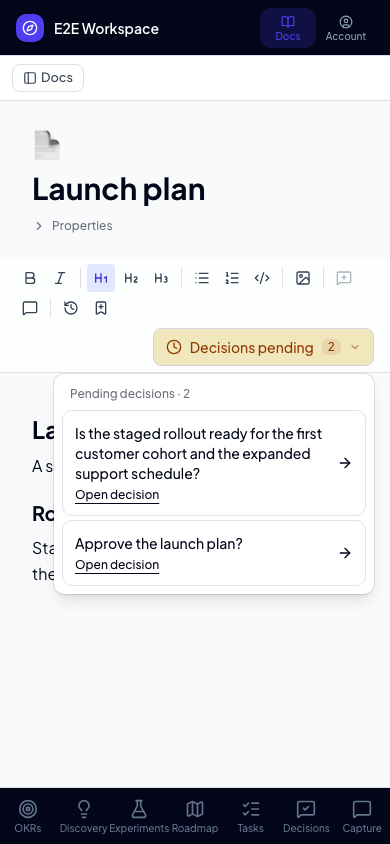
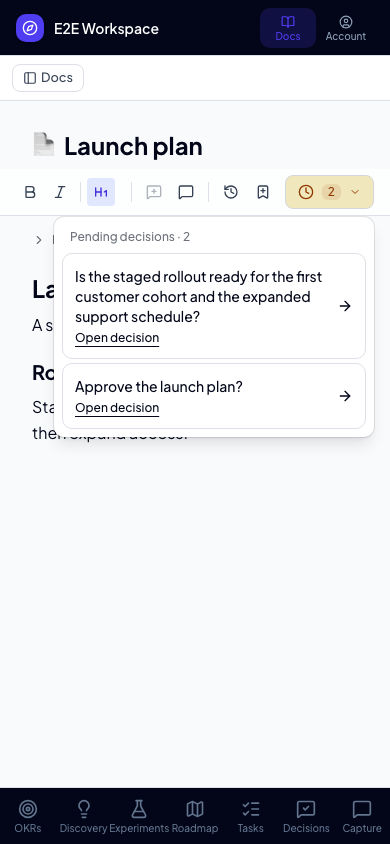
fix(docs): reclaim the editor viewport — collapse properties, unwrap the toolbar on mobile (#196)
* fix(docs): collapse properties by default and stop the header eating the viewport

The docs editor rendered Properties inside the fixed header block that sits
above the sticky toolbar, and DocProperties auto-expanded whenever the doc had
any metadata. On a doc with a handful of properties that combination consumed
roughly half the visible editor area before a single line of content showed,
and no amount of scrolling reclaimed it.

Three changes:

- Move <DocProperties> into the scrollable content container, just above
  <EditorContent>, so it scrolls away with the document instead of
  permanently occupying the viewport. The title and toolbar stay pinned.
- Default the Properties disclosure to closed. Properties are reference data,
  not the primary surface, so they should cost nothing until asked for. The
  collapsed control still shows the count, e.g. "Properties (4)".
- Fold the doc icon into the title row. It previously owned an entire row of
  its own above the title; it now sits inline to the left of the title, with
  both stepped down from text-3xl to text-2xl.

No behavior change to metadata editing or persistence.

* fix(docs): make the editor toolbar scroll on mobile instead of wrapping

The toolbar used flex-wrap, so on narrow viewports the formatting buttons
spilled onto a second row and the decision-status pill got pushed onto its
own line, eating extra vertical space and reading as visually broken.
[…]

Changed region(s): [[0.0615, 0.154, 0.9846, 0.7085], [0.6462, 0.1848, 0.9846, 0.2773], [0.5846, 0.2156, 0.6154, 0.2464]]

diff --git a/components/docs/doc-editor.tsx b/components/docs/doc-editor.tsx
@@ -346,12 +346,13 @@ export function DocEditor({ doc, versions, comments: initialComments, revalidate
         {saveStatus === "saved" && <span className="text-xs text-text-subtle">Saved</span>}
       </div>
 
-      <div className="px-8 pb-2">
+      {/* Icon + title on a single row */}
+      <div className="flex items-center gap-2 px-8 pb-2">
         {/* Icon picker */}
-        <div className="relative mb-2">
+        <div className="relative shrink-0">
           <button
             onClick={() => setShowIconInput((v) => !v)}
-            className="text-3xl leading-none hover:opacity-70 transition-opacity"
+            className="text-2xl leading-none hover:opacity-70 transition-opacity"
             title="Set icon"
           >
             {icon || "📄"}
@@ -381,19 +382,16 @@ export function DocEditor({ doc, versions, comments: initialComments, revalidate
           onChange={(e) => setTitle(e.target.value)}
           onBlur={handleSaveTitle}
           placeholder="Untitled"
-          className="w-full text-3xl font-bold text-text-primary bg-transparent border-none outline-none placeholder:text-slate-300 mb-3"
-        />
-
-        {/* Properties */}
-        <DocProperties
-          docId={doc.id}
-          initialMetadata={(doc.metadata as DocMetadata | null) ?? null}
-          revalidatePathStr={revalidatePathStr}
+          className="flex-1 min-w-0 text-2xl font-bold text-text-primary bg-transparent border-none outline-none placeholder:text-slate-300"
         />
       </div>
 
       {/* Toolbar */}
-      <div className="sticky top-0 z-10 flex flex-wrap items-center gap-0.5 px-4 sm:px-8 py-1.5 border-b border-border-default bg-surface-panel/90 backdrop-blur-sm">
+      <div className="sticky top-0 z-10 flex items-center gap-1 px-4 sm:px-8 py-1.5 border-b border-border-default bg-surface-panel/90 backdrop-blur-sm">
+        {/* Buttons scroll horizontally on narrow screens instead of wrapping to a
+            second row (which used to eat viewport height) or shrinking to the
+            point of being unreadable/untappable. */}
+        <div className="flex flex-1 min-w-0 items-center gap-0.5 overflow-x-auto [scrollbar-width:none] [&::-webkit-scrollbar]:hidden">
         <ToolbarButton
           onClick={() => editor.chain().focus().toggleBold().run()}
           isActive={editor.isActive("bold")}
@@ -408,7 +406,7 @@ export function DocEditor({ doc, versions, comments: initialComments, revalidate
         >
           <Italic className="w-4 h-4" />
         </ToolbarButton>
-        <div className="w-px h-5 bg-border-default mx-1" />
+        <div className="w-px h-5 bg-border-default mx-1 shrink-0" />
         <ToolbarButton
           onClick={() => editor.chain().focus().toggleHeading({ level: 1 }).run()}
           isActive={editor.isActive("heading", { level: 1 })}
@@ -430,7 +428,7 @@ export function DocEditor({ doc, versions, comments: initialComments, revalidate
         >
           <Heading3 className="w-4 h-4" />
         </ToolbarButton>
-        <div className="w-px h-5 bg-border-default mx-1" />
+        <div className="w-px h-5 bg-border-default mx-1 shrink-0" />
         <ToolbarButton
           onClick={() => editor.chain().focus().toggleBulletList().run()}
           isActive={editor.isActive("bulletList")}
@@ -452,13 +450,17 @@ export function DocEditor({ doc, versions, comments: initialComments, revalidate
         >
           <Code2 className="w-4 h-4" />
         </ToolbarButton>
-        <div className="w-px h-5 bg-border-default mx-1" />
+        <div className="w-px h-5 bg-border-default mx-1 shrink-0" />
         <ToolbarButton onClick={handleImageButtonClick} title="Add image">
           <ImageIcon className="w-4 h-4" />
         </ToolbarButton>
-        <div className="w-px h-5 bg-border-default mx-1" />
+        </div>
+        {/* Comment/history/version controls stay outside the scroll strip above —
+            their popovers are absolutely positioned and would get clipped by an
+            overflow-x-auto ancestor, so they're pinned here instead of scrolling. */}
+        <div className="w-px h-5 bg-border-default mx-1 shrink-0" />
         {/* Comment on the current selection */}
-        <div className="relative">
+        <div className="relative shrink-0">
           <ToolbarButton
             onClick={handleStartComment}
             disabled={selectionEmpty}
@@ -523,11 +525,11 @@ export function DocEditor({ doc, versions, comments: initialComments, revalidate
             )}
           </span>
         </ToolbarButton>
-        <div className="w-px h-5 bg-border-default mx-1" />
+        <div className="w-px h-5 bg-border-default mx-1 shrink-0" />
         <ToolbarButton onClick={() => setHistoryOpen(true)} title="Version history">
           <History className="w-4 h-4" />
         </ToolbarButton>
-        <div className="relative">
+        <div className="relative shrink-0">
           <ToolbarButton onClick={() => setShowSaveVersionInput((v) => !v)} title="Save named version">
             <BookmarkPlus className="w-4 h-4" />
           </ToolbarButton>
@@ -547,7 +549,7 @@ export function DocEditor({ doc, versions, comments: initialComments, revalidate
             </div>
           )}
         </div>
-        {decisionAction && <div className="ml-auto flex w-full justify-end pt-1 sm:w-auto sm:pt-0">{decisionAction}</div>}
+        {decisionAction && <div className="shrink-0 pl-1">{decisionAction}</div>}
       </div>
 
       {/* Hidden file input */}
@@ -561,6 +563,12 @@ export function DocEditor({ doc, versions, comments: initialComments, revalidate
 
       {/* Editor */}
       <div className="flex-1 px-8 py-4 overflow-y-auto">
+        {/* Properties — scrolls with the content instead of pinning the viewport */}
+        <DocProperties
+          docId={doc.id}
+          initialMetadata={(doc.metadata as DocMetadata | null) ?? null}
+          revalidatePathStr={revalidatePathStr}
+        />
         <EditorContent editor={editor} className="min-h-[400px] prose-custom" />
       </div>
 
@@ -641,7 +649,7 @@ function ToolbarButton({
       title={title}
       disabled={disabled}
       className={cn(
-        "w-7 h-7 flex items-center justify-center rounded transition-colors disabled:opacity-40 disabled:cursor-not-allowed",
+        "w-7 h-7 shrink-0 flex items-center justify-center rounded transition-colors disabled:opacity-40 disabled:cursor-not-allowed",
         isActive
           ? "bg-indigo-100 text-indigo-700"
           : "text-text-secondary hover:bg-surface-inset hover:text-text-primary"

diff --git a/components/docs/doc-decision-action.tsx b/components/docs/doc-decision-action.tsx
@@ -11,14 +11,24 @@ import type { DecidedDocDecision, DocDecisions } from "@/lib/tracked-decisions"
 type Props = { orgSlug: string; workspaceSlug: string; docId: string; docTitle: string; decisions: DocDecisions | null }
 const actionClass = "inline-flex max-w-full items-center gap-2 rounded-md border border-status-warning/30 bg-status-warning-surface px-3 py-2 text-sm font-medium text-status-warning hover:brightness-95 focus-visible:outline-none focus-visible:ring-2 focus-visible:ring-ring focus-visible:ring-offset-2"
 
-/** Same tones the Decisions list uses, so an outcome reads identically everywhere. */
+/**
+ * Same tones the Decisions list uses, so an outcome reads identically
+ * everywhere. The label text collapses below `sm` — this badge sits in the
+ * doc toolbar, which is a horizontally-scrollable strip on mobile; a
+ * full-text badge here would eat most of the available scroll width and
+ * crowd out the formatting buttons. The icon alone still conveys the
+ * outcome, and the trigger's `aria-label` (see `decidedSummary`) keeps it
+ * accessible regardless of what's visually shown.
+ */
 function outcomeBadge(decided: DecidedDocDecision) {
+  const collapsed = (text: string) => <span className="hidden sm:inline">{text}</span>
   switch (decided.outcome) {
-    case "APPROVE": return <StatusBadge status="success" icon={<CircleCheck />}>Approved</StatusBadge>
-    case "REQUEST_CHANGES": return <StatusBadge status="warning" icon={<PencilLine />}>Changes requested</StatusBadge>
-    case "REJECT": return <StatusBadge status="danger" icon={<CircleSlash />}>Rejected</StatusBadge>
+    case "APPROVE": return <StatusBadge status="success" icon={<CircleCheck />}>{collapsed("Approved")}</StatusBadge>
+    case "REQUEST_CHANGES": return <StatusBadge status="warning" icon={<PencilLine />}>{collapsed("Changes requested")}</StatusBadge>
+    case "REJECT": return <StatusBadge status="danger" icon={<CircleSlash />}>{collapsed("Rejected")}</StatusBadge>
     // An outcome class added later should still render, labelled by the option.
-    default: return <StatusBadge status="neutral">{decided.outcomeLabel}</StatusBadge>
+    // (icon included so the collapsed mobile badge isn't left empty)
+    default: return <StatusBadge status="neutral" icon={<CircleAlert />}>{collapsed(decided.outcomeLabel)}</StatusBadge>
   }
 }
 
@@ -30,7 +40,7 @@ function decidedSummary(decided: DecidedDocDecision) {
 
 export function DocDecisionAction({ orgSlug, workspaceSlug, docId, docTitle, decisions }: Props) {
   const base = `/${orgSlug}/${workspaceSlug}`
-  if (decisions === null) return <Link href={`${base}/decisions`} className={actionClass}><CircleAlert className="size-4 shrink-0" aria-hidden="true" />Decision status unavailable</Link>
+  if (decisions === null) return <Link href={`${base}/decisions`} className={actionClass} aria-label="Decision status unavailable"><CircleAlert className="size-4 shrink-0" aria-hidden="true" /><span className="hidden sm:inline">Decision status unavailable</span></Link>
 
   const { pending, latestDecided } = decisions
 
@@ -40,7 +50,13 @@ export function DocDecisionAction({ orgSlug, workspaceSlug, docId, docTitle, dec
     const accessibleLabel = `${label}, ${pending.length} ${pending.length === 1 ? "request" : "requests"}`
     // The count is only rendered for 2+. At one request it duplicated the
     // singular label and advertised a list that does not open at that count.
-    const content = <><Clock className="size-4 shrink-0" aria-hidden="true" /><span>{label}</span>{pending.length > 1 && <span className="rounded-sm bg-status-warning/10 px-1.5 text-xs tabular-nums" aria-hidden="true">{pending.length}</span>}</>
+    // The label text collapses below `sm` for the same reason the outcome
+    // badge does (see outcomeBadge) — this trigger lives in the horizontally-
+    // scrollable doc toolbar on mobile. The count badge stays visible on its
+    // own since "clock + N" is still legible without the words, and the
+    // multi-request case always renders one; accessibility is covered by
+    // `accessibleLabel` on the trigger itself.
+    const content = <><Clock className="size-4 shrink-0" aria-hidden="true" /><span className="hidden sm:inline">{label}</span>{pending.length > 1 && <span className="rounded-sm bg-status-warning/10 px-1.5 text-xs tabular-nums" aria-hidden="true">{pending.length}</span>}</>
     if (pending.length === 1) return <Link href={`${base}/reviews/${pending[0].id}`} className={actionClass} aria-label={accessibleLabel}>{content}</Link>
     return <DropdownMenu>
       <DropdownMenuTrigger className={actionClass} aria-label={accessibleLabel}>{content}<ChevronDown className="size-3 shrink-0" aria-hidden="true" /></DropdownMenuTrigger>
@@ -87,5 +103,14 @@ export function DocDecisionAction({ orgSlug, workspaceSlug, docId, docTitle, dec
     </DropdownMenu>
   }
 
-  return <RequestDecisionLink orgSlug={orgSlug} workspaceSlug={workspaceSlug} subjectType="DOC" subjectId={docId} subjectTitle={docTitle} />
+  return <RequestDecisionLink
+    orgSlug={orgSlug}
+    workspaceSlug={workspaceSlug}
+    subjectType="DOC"
+    subjectId={docId}
+    subjectTitle={docTitle}
+    // Collapses below `sm` — see outcomeBadge's comment for why.
+    label={<span className="hidden sm:inline">Request decision</span>}
+    ariaLabel="Request decision"
+  />
 }

diff --git a/components/docs/doc-properties.tsx b/components/docs/doc-properties.tsx
@@ -228,9 +228,9 @@ export function DocProperties({
   initialMetadata,
   revalidatePathStr,
 }: DocPropertiesProps) {
-  const [open, setOpen] = useState(
-    initialMetadata !== null && Object.keys(initialMetadata).length > 0
-  );
+  // Always starts collapsed — properties are reference data, not the primary
+  // surface, so they should never consume editor space until asked for.
+  const [open, setOpen] = useState(false);
   const [metadata, setMetadata] = useState<DocMetadata>(initialMetadata ?? {});
   const saveTimer = useRef<ReturnType<typeof setTimeout> | null>(null);
 
